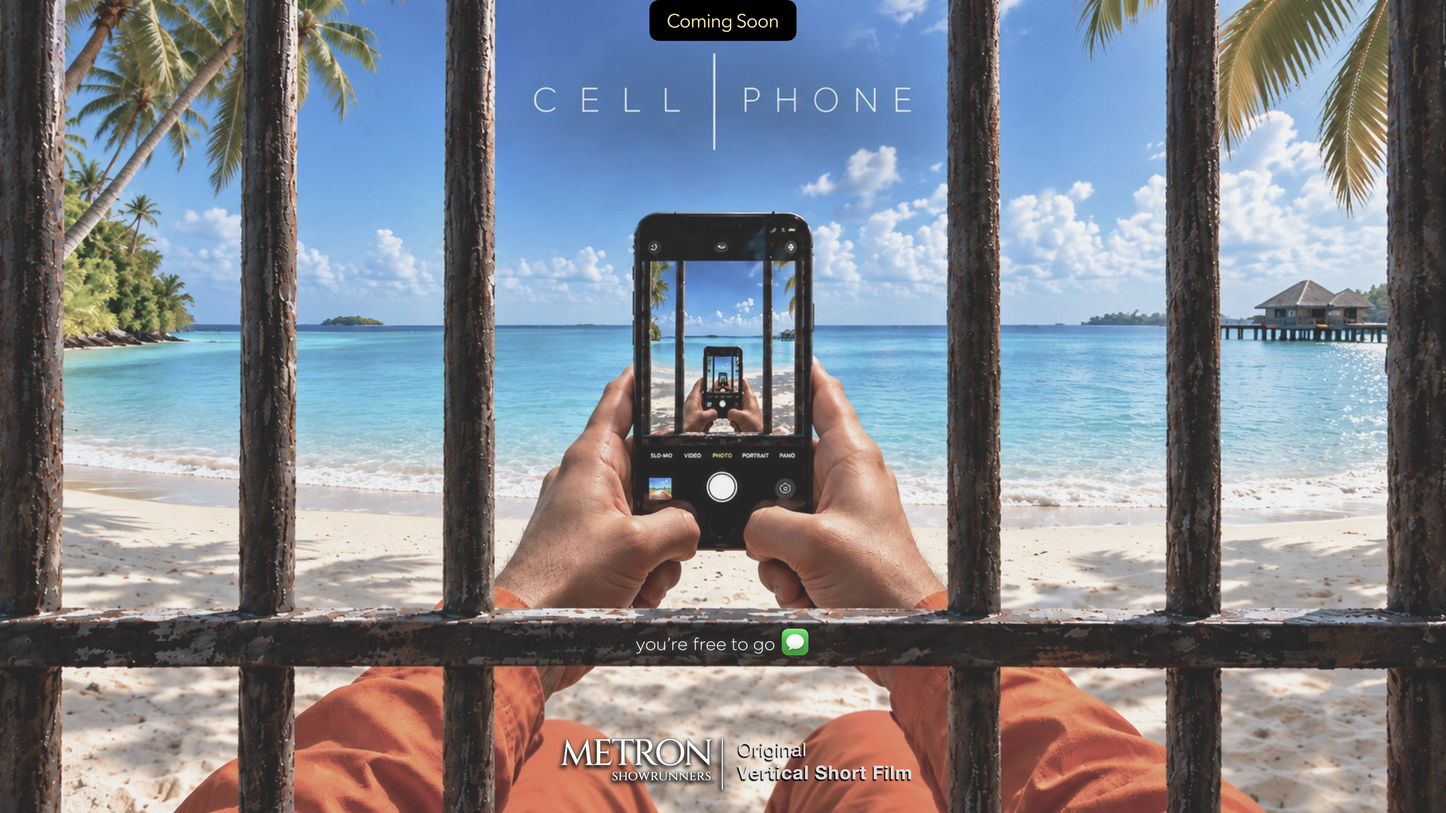
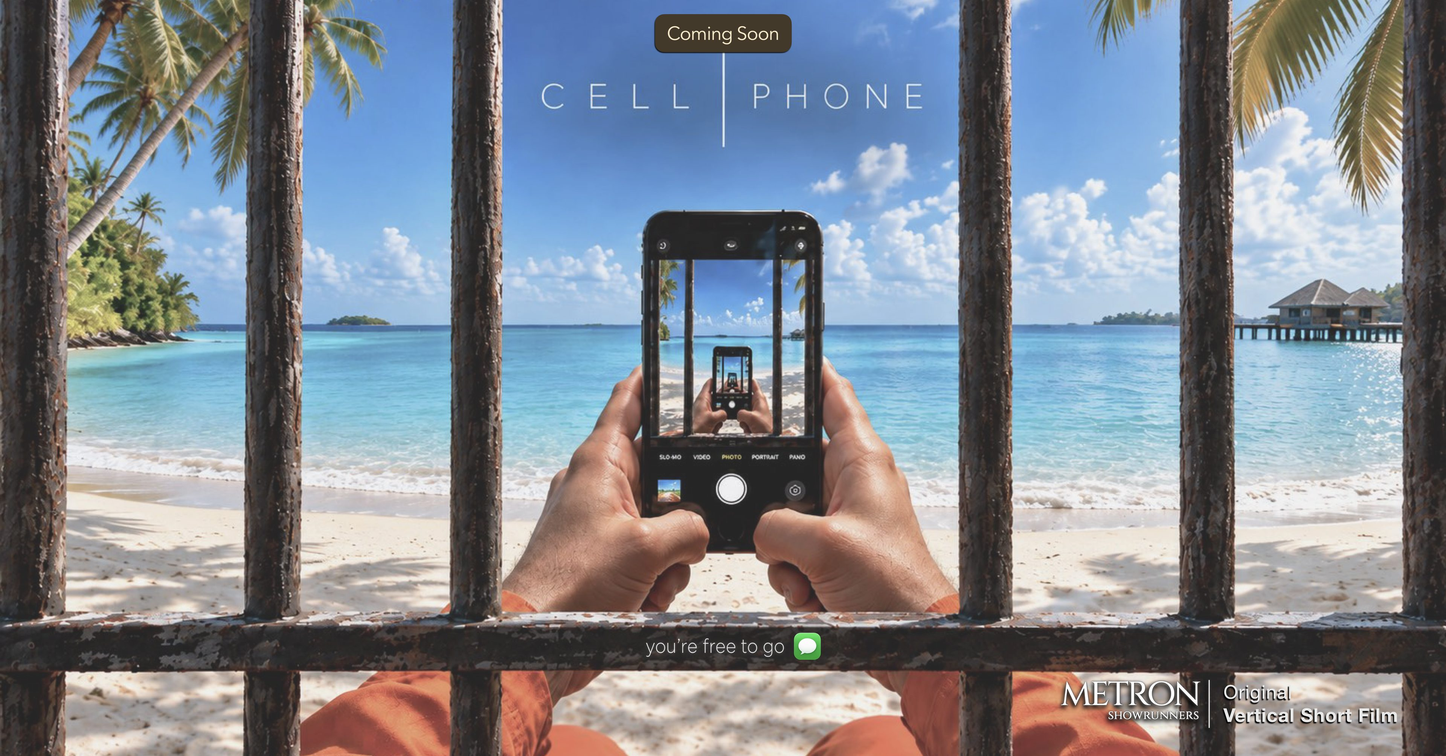
Arte landscape nova nas seis IPs, com a medida refeita
Fontes 9211x4815, servidas em 3840x2007 JPEG. Todos os seis arquivos
ficaram menores que os que substituiram (Laya 1096 -> 814 KB, Cell Phone
1085 -> 805 KB, e assim por diante). A arte portrait nao foi tocada.
Referencias em ?v=6.

As pecas novas NAO sao 16:9: 1,9133 contra 1,7778 da anterior. Entao o
aspecto da caixa do slide, que e o que faz o hero preencher a tela, foi
atualizado para bater com a arte. Ele precisa ser exatamente igual, senao o
object-fit: cover passa a recortar dentro da caixa tambem e o hotspot do
botao sai de cima da pilula desenhada.

A pilula foi remedida com regua de porcentagem sobre cada uma das seis,
como o AGENTS.md exige: x 45,2%-54,8%, y 1,6%-7,0% em todas. E a mesma
pilula de largura fixa, so o rotulo muda (Watch Teaser, View Project, View
Script, Coming Soon). Isso e bem mais estreito que a pilula da arte
anterior (x 32%-68%), ou seja, o hotspot antigo ficaria sobrando pelos
lados. Agora e x 46%-54%, y 2,5%-6,2%, embutido dentro da pilula medida.
Verificado na tela em 21:9, 16:9 e 4:3: cai sobre a pilula em toda largura,
inclusive na caixa ancorada a direita do Not Even Death.

Sendo mais larga que 16:9, a arte agora perde as laterais em monitor comum:
3,5% por lado em 16:9, 8,2% em 16:10, 15,2% em 4:3. As margens medidas
dizem o custo: o titulo da Mrs. Steele comeca a 3,4% da borda esquerda, o
logo da Laya a ~11%, e o Not Even Death tem conteudo nas duas bordas
(icones a partir de 3,6% a esquerda, o H de DEATH ate 99,3% a direita), o
[…]

diff --git a/CHANGELOG.md b/CHANGELOG.md
@@ -10,6 +10,30 @@ left out rather than guessed at.
 ## 2026-09-21
 
 ### Changed
+- New landscape key art for all six IPs, from 9211x4815 sources, served at
+  3840x2007 JPEG (every file came out smaller than the one it replaced;
+  `?v=6`). The portrait art was not touched.
+
+  The new pieces are **not 16:9**: 1.9133 against the old 1.7778. So the
+  slide box that makes the hero full-bleed had its aspect updated to match
+  — it has to equal the art exactly, or `object-fit: cover` starts cropping
+  inside the box as well and the button hotspot drifts off the drawn pill.
+
+  The CTA pill was remeasured with a percentage ruler over each of the six,
+  as `AGENTS.md` requires: it sits at x 45.2%–54.8%, y 1.6%–7.0% on all of
+  them — the same fixed-width pill, only the label differs. That is far
+  narrower than the previous art's pill (x 32%–68%), so the old hotspot
+  would have hung off the sides; it is now x 46%–54%, y 2.5%–6.2%, inset
+  inside the measured pill. Verified on screen at 21:9, 16:9 and 4:3: the
+  hotspot lands on the drawn pill at every width, including Not Even
+  Death's right-anchored box.
+
+  Being wider than 16:9, the art now loses its sides on ordinary monitors:
+  3.5% per side at 16:9, 8.2% at 16:10, 15.2% at 4:3. Measured margins say
+  what that costs — Mrs. Steele's title starts at 3.4% from the left, Laya's
+  logo at ~11%, and Not Even Death has content at both edges (icons from
+  3.6% left, the "H" in DEATH out to 99.3% right), which its right anchor
+  can no longer keep whole on both sides.
 - The hero art fills the viewport at every aspect ratio. The slide box is
   no longer the largest 16:9 that *fits* inside the viewport (with a 1.45
   aspect floor) but the smallest that *covers* it — `max()` instead of
